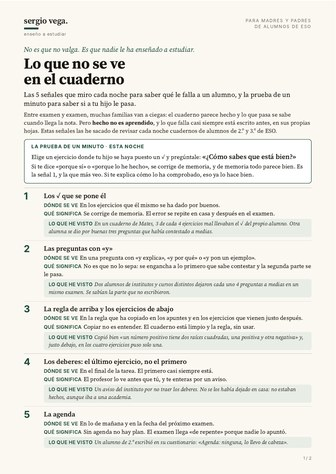
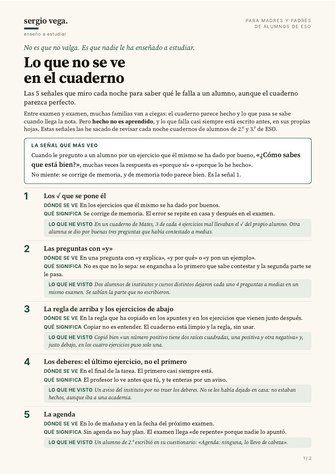
Add files via upload

diff --git a/guia/index.html b/guia/index.html
@@ -4,7 +4,7 @@
 <meta charset="utf-8">
 <meta name="viewport" content="width=device-width, initial-scale=1">
 <title>Sergio Vega · Lo que no se ve en el cuaderno · Guía gratis para padres de ESO</title>
-<meta name="description" content="El cuaderno parece hecho y la nota dice otra cosa. Las 5 señales que miro cada noche en cuadernos de ESO, y la prueba de un minuto para saber si a tu hijo le pasa. Guía gratis.">
+<meta name="description" content="El cuaderno parece hecho y la nota dice otra cosa. Las 5 señales que miro cada noche en cuadernos de ESO, para ver lo que el cuaderno no enseña. Guía gratis.">
 <meta property="og:type" content="website">
 <meta property="og:url" content="https://formacion.sergiovega.es/guia/">
 <meta property="og:title" content="Te dice que ha hecho los deberes. ¿Por qué la nota no cuadra?">
@@ -177,7 +177,7 @@ footer a{color:var(--gris)}
 <main>
   <p class="llamada">Para madres y padres con un hijo en la ESO</p>
   <h1>Te dice que ha hecho los deberes. Y es verdad. <em>Entonces, ¿por qué la nota no cuadra?</em></h1>
-  <p class="intro">Porque <b>hecho no es aprendido</b>. Lo que no ha aprendido está en su cuaderno semanas antes del examen, y se puede ver. Te doy <b>las 5 señales que miro cada noche</b>, y la prueba de un minuto para saber si a tu hijo le pasa. Sin estar encima de él. Gratis.</p>
+  <p class="intro">Porque <b>hecho no es aprendido</b>. Lo que no ha aprendido está en su cuaderno semanas antes del examen, y se puede ver. Te doy <b>las 5 señales que miro cada noche</b> para verlo. Sin estar encima de él. Gratis.</p>
 
   <section class="caja" id="guia">
     <div class="caja-top">
@@ -218,7 +218,6 @@ footer a{color:var(--gris)}
       <h3>Hecho. Mira tu correo.</h3>
       <p><b>Te acabo de mandar la guía por email.</b> Te llega en un minuto, de Sergio Vega.</p>
       <p>Si en 2 minutos no lo ves, mira en Promociones o en Spam y arrástralo a la bandeja principal. Así te llegan bien los siguientes.</p>
-      <p>Y esta noche, si quieres, pregúntale por un ejercicio con su ✓: «¿cómo sabes que está bien?». Lo que te conteste ya te dice mucho.</p>
     </div>
   </section>
   <p class="bajo-caja">Sin llamadas. Sin compromiso. Te das de baja con un clic.</p>
@@ -265,7 +264,7 @@ footer a{color:var(--gris)}
   <div class="cosa"><h3><span>5</span>Las preguntas con «y»</h3>
     <p>«Y explica», «y por qué», «y pon un ejemplo». No es que no lo sepa: se engancha a lo primero que sabe contestar y la segunda parte se le pasa.</p></div>
 
-  <p>En la guía tienes además <b>la prueba de un minuto</b> para hacer esta noche, y cómo lo trabajo yo cada día con mis alumnos.</p>
+  <p>En la guía tienes además <b>cómo lo trabajo yo cada día</b> con mis alumnos para que no se descuelguen.</p>
 
   <h2>Que no se <em>descuelgue</em></h2>
   <p class="h2sub-l"><b>Lo que hoy no entiende, lo trabajamos mañana.</b></p>
@@ -299,7 +298,7 @@ footer a{color:var(--gris)}
     <h2>No tienes que sentarte a su lado</h2>
     <p>Una revisión de 50 estudios con alumnos de 11 a 14 años encontró que, de todo lo que hacen los padres, <b>sentarse a hacer los deberes con su hijo es lo que menos se asocia con mejores notas.</b> Hablar con él de para qué sirve estudiar, lo que más.</p>
     <p>Y mirar no es vigilar. Lo que ayuda no es cuánto te implicas, sino cómo: sin reñir, sin corregir, sin estar encima.</p>
-    <p>Por eso la guía no te convierte en el policía de los deberes. Te da un minuto para saber qué le pasa. Y si un día decides que alguien le acompañe cada tarde, <b>ese puedo ser yo. Tú, las conversaciones. Yo, enseñarle a estudiar.</b></p>
+    <p>Por eso la guía no te convierte en el policía de los deberes. Te dice dónde mirar. Y si un día decides que alguien le acompañe cada tarde, <b>ese puedo ser yo. Tú, las conversaciones. Yo, enseñarle a estudiar.</b></p>
     <p class="fuente">Hill y Tyson (2009), Developmental Psychology 45(3). Pomerantz, Moorman y Litwack (2007), Review of Educational Research 77(3).</p>
   </div>
 
@@ -312,7 +311,6 @@ footer a{color:var(--gris)}
   <ol class="linea">
     <li><span class="cuando">Hoy · 20 segundos</span>Eliges el curso y me dejas tu email.</li>
     <li><span class="cuando">Al momento</span>Te llega la guía por email: 2 páginas, y otra versión para imprimir.</li>
-    <li><span class="cuando">Esta noche · 1 minuto, si quieres</span>Una sola pregunta, sobre un ejercicio con su ✓: «¿cómo sabes que está bien?». Si te apetece, me contestas al email con lo que te dijo. <b>Lo leo yo.</b></li>
     <li><span class="cuando">Días 2, 3, 4, 5 y 7</span>Te llega un email corto cada uno de esos días. Por qué se dejan preguntas a medias sabiéndoselas. Por qué no se arregla estudiando la víspera. Por qué no tienes que ser tú quien se siente con él. Una propuesta. Y una despedida.</li>
   </ol>
 
